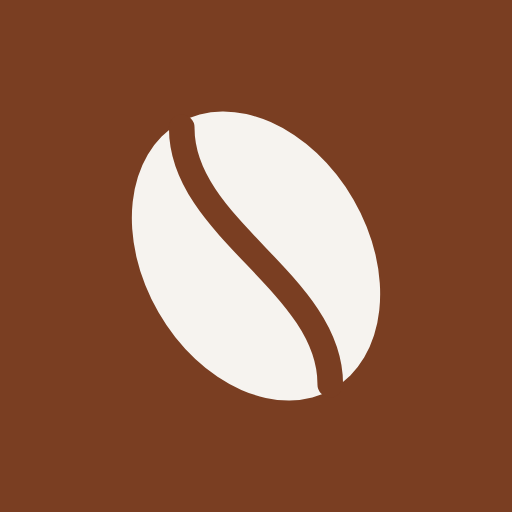
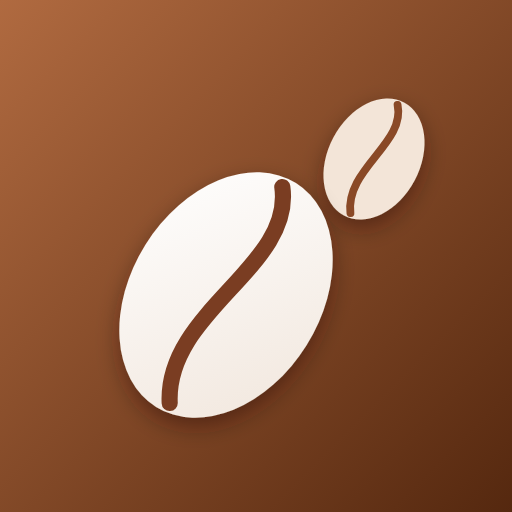
アイコンと起動画面を新しいデザインに合わせて作り直し、産地スタンプに「ポン」と押す演出を付ける
- アイコン：珈琲色のグラデーションに白いコーヒー豆ふたつ。Android 用の余白付き（maskable）も用意
- 起動画面：iPhone のホーム画面から開いたときの起動画像（白地・黒地）と、アイコンがふわっと消えてアプリに切り替わる動き
- 産地スタンプ帳：前に開いたときから増えた国は、画面に見えたところでハンコをポンと押す。上に「新しいスタンプ」を表示
- 動きを減らす設定では演出を出さない（さけメモ #22 と同じ）

Claude-Session: https://claude.ai/code/session_011UzNsmRdRvDHmse49LcX2u

diff --git a/src/app/stamps/page.tsx b/src/app/stamps/page.tsx
@@ -1,7 +1,7 @@
 "use client";
 
 import Link from "next/link";
-import { useEffect, useMemo, useState } from "react";
+import { useEffect, useMemo, useRef, useState } from "react";
 import { stars } from "@/components/RecordCard";
 import { collectStamps, REGIONS, type Stamp } from "@/lib/countries";
 import { listRecords } from "@/lib/db";
@@ -12,12 +12,16 @@ function StampCell({
   stamp,
   open,
   onToggle,
+  pop,
 }: {
   name: string;
   stamp?: Stamp;
   open: boolean;
   onToggle: () => void;
+  /** 新しく増えたスタンプは、ポンと押す */
+  pop?: boolean;
 }) {
+  const delay = usePressDelay(pop);
   if (!stamp) {
     return (
       <div className="stamp" aria-label={`${name} まだ`}>
@@ -27,13 +31,48 @@ function StampCell({
   }
   // 飲んだ国はタップで、その国のどの地域・農園の豆を飲んだかを開く
   return (
-    <button type="button" className="stamp stamp-on" aria-expanded={open} onClick={onToggle}>
+    <button
+      type="button"
+      ref={delay.ref}
+      className={!pop ? "stamp stamp-on" : delay.value === null ? "stamp stamp-on stamp-wait" : "stamp stamp-on stamp-pop"}
+      style={delay.value === null ? undefined : { animationDelay: `${delay.value}s` }}
+      aria-expanded={open}
+      onClick={onToggle}
+    >
       <span className="stamp-name">{name}</span>
       <span className="stamp-meta">
         {stamp.count}杯・最高★{stamp.best}
       </span>
     </button>
   );
+}
+
+// 同じころに見えたスタンプは、少しずつずらして順番に押す
+let lastPress = 0;
+let pressedInRow = 0;
+
+/** 画面に見えたときに押す。下のほうの新しいスタンプも、スクロールして見えたところで押される */
+function usePressDelay(pop?: boolean) {
+  const ref = useRef<HTMLButtonElement>(null);
+  const [value, setValue] = useState<number | null>(null);
+  useEffect(() => {
+    const el = ref.current;
+    if (!pop || !el) return;
+    const io = new IntersectionObserver(
+      ([e]) => {
+        if (!e.isIntersecting) return;
+        io.disconnect();
+        const now = Date.now();
+        pressedInRow = now - lastPress < 500 ? pressedInRow + 1 : 0;
+        lastPress = now;
+        setValue(0.25 + Math.min(pressedInRow, 10) * 0.12);
+      },
+      { threshold: 0.6 },
+    );
+    io.observe(el);
+    return () => io.disconnect();
+  }, [pop]);
+  return { ref, value };
 }
 
 /** その国で飲んだ豆（地域・農園ごと）。評価の高い順 */
@@ -57,6 +96,19 @@ function StampDetail({ name, stamp }: { name: string; stamp: Stamp }) {
   );
 }
 
+const SEEN_KEY = "mame-memo:stamps-seen";
+
+/** 前に開いたときから増えた産地。見たものとして覚えておく */
+function takeNewStamps(names: string[]): string[] {
+  try {
+    const seen = new Set(JSON.parse(localStorage.getItem(SEEN_KEY) ?? "[]") as string[]);
+    localStorage.setItem(SEEN_KEY, JSON.stringify(names));
+    return names.filter((n) => !seen.has(n));
+  } catch {
+    return [];
+  }
+}
+
 /** 飲んだ産地がスタンプのように埋まっていく。まだの国は次に試すヒントになる */
 export default function StampsPage() {
   const [records, setRecords] = useState<TastingRecord[] | null>(null);
@@ -68,6 +120,19 @@ export default function StampsPage() {
   }, []);
 
   const { stamps, others, total } = useMemo(() => collectStamps(records ?? []), [records]);
+
+  // 新しいスタンプは、ページを開いたときにポンと押す演出をする
+  const [fresh, setFresh] = useState<string[]>([]);
+  const counted = useRef(false);
+  useEffect(() => {
+    if (!records || counted.current) return;
+    counted.current = true;
+    // 画面の並び順（上から）で押していく
+    const shown = REGIONS.flatMap((r) => r.countries.map((c) => c.name)).filter((n) => stamps.has(n));
+    setFresh(takeNewStamps([...shown, ...others.keys()]));
+  }, [records, stamps, others]);
+  const popOf = (name: string) => fresh.includes(name);
+
 
   return (
     <>
@@ -81,6 +146,13 @@ export default function StampsPage() {
       <p className="lead">
         {total}カ国中 <strong>{stamps.size}カ国</strong> 制覇。色の付いた国を押すと、飲んだ地域や農園が見られます。
       </p>
+
+      {fresh.length > 0 && (
+        <p className="stamp-news" role="status">
+          新しいスタンプ：{fresh.slice(0, 5).join("・")}
+          {fresh.length > 5 ? ` ほか${fresh.length - 5}か所` : ""}
+        </p>
+      )}
 
       <main className="content">
         {REGIONS.map((r) => {
@@ -101,6 +173,7 @@ export default function StampsPage() {
                     stamp={stamps.get(c.name)}
                     open={opened === c.name}
                     onToggle={() => toggle(c.name)}
+                    pop={popOf(c.name)}
                   />
                 ))}
               </div>
@@ -115,7 +188,14 @@ export default function StampsPage() {
             <h2 style={{ fontSize: 15 }}>そのほかの産地</h2>
             <div className="stamp-grid">
               {[...others].map(([name, s]) => (
-                <StampCell key={name} name={name} stamp={s} open={opened === name} onToggle={() => toggle(name)} />
+                <StampCell
+                  key={name}
+                  name={name}
+                  stamp={s}
+                  open={opened === name}
+                  onToggle={() => toggle(name)}
+                  pop={popOf(name)}
+                />
               ))}
             </div>
             {opened && others.get(opened) && <StampDetail name={opened} stamp={others.get(opened)!} />}

diff --git a/src/app/globals.css b/src/app/globals.css
@@ -1656,3 +1656,112 @@ input[type="search"].input:focus {
     transform: scale(0.8);
   }
 }
+/* --- 産地スタンプ：新しい国はハンコをポンと押す --- */
+.stamp-news {
+  margin: 0 16px 12px;
+  padding: 10px 14px;
+  border-radius: 12px;
+  background: var(--accent-soft);
+  color: var(--accent-dark);
+  font-size: 14px;
+  font-weight: 700;
+  animation: rise 0.4s cubic-bezier(0.2, 0.8, 0.3, 1) 0.2s backwards;
+}
+.stamp-pop {
+  position: relative;
+  animation: stamp-press 0.55s cubic-bezier(0.3, 0.7, 0.4, 1) backwards;
+}
+/* 押した瞬間にインクがじわっと広がる輪 */
+.stamp-pop::after {
+  content: "";
+  position: absolute;
+  inset: -2px;
+  border-radius: 50%;
+  border: 2px solid var(--accent);
+  opacity: 0;
+  pointer-events: none;
+  animation: stamp-ink 0.6s ease-out;
+  animation-delay: inherit;
+}
+@keyframes stamp-press {
+  0% {
+    opacity: 0;
+    transform: scale(2.3) rotate(-22deg);
+  }
+  45% {
+    opacity: 1;
+    transform: scale(0.86) rotate(-4deg);
+  }
+  70% {
+    transform: scale(1.06) rotate(-7deg);
+  }
+  100% {
+    transform: rotate(-6deg);
+  }
+}
+@keyframes stamp-ink {
+  0%,
+  40% {
+    opacity: 0.6;
+    transform: scale(1);
+  }
+  100% {
+    opacity: 0;
+    transform: scale(1.5);
+  }
+}
+
+/* --- 起動画面：ホーム画面から開いたとき、アイコンからふわっとアプリに切り替える --- */
+.launch {
+  display: none;
+}
+@media (display-mode: standalone) {
+  .launch {
+    position: fixed;
+    inset: 0;
+    z-index: 1000;
+    display: flex;
+    align-items: center;
+    justify-content: center;
+    background: var(--bg);
+    pointer-events: none;
+    animation: launch-out 0.35s ease-in 0.45s forwards;
+  }
+  .launch img {
+    width: 120px;
+    height: 120px;
+    border-radius: 27px;
+    box-shadow: 0 4px 18px rgba(0, 0, 0, 0.12);
+    animation: launch-icon 0.8s cubic-bezier(0.3, 0.7, 0.4, 1) forwards;
+  }
+}
+@keyframes launch-out {
+  to {
+    opacity: 0;
+    visibility: hidden;
+  }
+}
+@keyframes launch-icon {
+  40% {
+    transform: scale(0.94);
+  }
+  100% {
+    transform: scale(1.25);
+    opacity: 0;
+  }
+}
+@media (prefers-reduced-motion: reduce) {
+  .launch {
+    display: none !important;
+  }
+}
+/* まだ画面に見えていない新しいスタンプは、押す前の空きの枠で待つ */
+.stamp-wait {
+  border: 1.5px dashed var(--input-line);
+  background: none;
+  color: var(--muted);
+  transform: none;
+}
+.stamp-wait .stamp-meta {
+  visibility: hidden;
+}

diff --git a/src/app/layout.tsx b/src/app/layout.tsx
@@ -1,5 +1,6 @@
 import type { Metadata, Viewport } from "next";
 import ServiceWorker from "@/components/ServiceWorker";
+import LaunchScreen from "@/components/LaunchScreen";
 import TabBar from "@/components/TabBar";
 import ThemeSync from "@/components/ThemeSync";
 import { THEME_BOOT } from "@/lib/theme";
@@ -8,8 +9,31 @@ import "./globals.css";
 export const metadata: Metadata = {
   title: "まめメモ",
   description: "飲んだコーヒーを記録して、だんだん詳しくなるアプリ",
-  appleWebApp: { capable: true, title: "まめメモ", statusBarStyle: "default" },
+  appleWebApp: { capable: true, title: "まめメモ", statusBarStyle: "default", startupImage: startupImages() },
 };
+
+/** iPhone のホーム画面から開いたときの起動画像（縦向き）。明るさの設定に合わせて白地・黒地を出し分ける */
+function startupImages() {
+  const devices: [number, number, number][] = [
+    [440, 956, 3],
+    [430, 932, 3],
+    [402, 874, 3],
+    [393, 852, 3],
+    [428, 926, 3],
+    [390, 844, 3],
+    [375, 812, 3],
+    [414, 896, 3],
+    [414, 896, 2],
+    [375, 667, 2],
+  ];
+  return devices.flatMap(([w, h, r]) =>
+    (["light", "dark"] as const).map((mode) => ({
+      url: `/splash/splash-${mode}-${w}x${h}@${r}x.png`,
+      media: `(device-width: ${w}px) and (device-height: ${h}px) and (-webkit-device-pixel-ratio: ${r}) and (orientation: portrait) and (prefers-color-scheme: ${mode})`,
+    })),
+  );
+}
+
 
 export const viewport: Viewport = {
   themeColor: [
@@ -31,6 +55,7 @@ export default function RootLayout({
         <script dangerouslySetInnerHTML={{ __html: THEME_BOOT }} />
       </head>
       <body>
+        <LaunchScreen />
         <div className="app">{children}</div>
         <TabBar />
         <ServiceWorker />

diff --git a/src/app/manifest.ts b/src/app/manifest.ts
@@ -7,13 +7,13 @@ export default function manifest(): MetadataRoute.Manifest {
     description: "飲んだコーヒーを記録して、だんだん詳しくなるアプリ",
     start_url: "/",
     display: "standalone",
-    background_color: "#f6f3ef",
-    theme_color: "#f6f3ef",
+    background_color: "#f2f2f7",
+    theme_color: "#f2f2f7",
     lang: "ja",
     icons: [
       { src: "/icon-192.png", sizes: "192x192", type: "image/png" },
       { src: "/icon-512.png", sizes: "512x512", type: "image/png" },
-      { src: "/icon-512.png", sizes: "512x512", type: "image/png", purpose: "maskable" },
+      { src: "/icon-maskable-512.png", sizes: "512x512", type: "image/png", purpose: "maskable" },
     ],
   };
 }

diff --git a/src/components/LaunchScreen.tsx b/src/components/LaunchScreen.tsx
@@ -1,0 +1,14 @@
+import icon from "../../public/icon-512.png";
+
+/**
+ * ホーム画面から開いたときの起動画面。iPhone が出す起動画像（public/splash）と同じ絵から始めて、
+ * アイコンがふわっと消えてアプリに切り替わる。ブラウザで開いたときと「動きを減らす」の設定では出さない（globals.css）
+ */
+export default function LaunchScreen() {
+  return (
+    <div className="launch" aria-hidden="true">
+      {/* eslint-disable-next-line @next/next/no-img-element -- 描画前から出したいので素の img にする */}
+      <img src={icon.src} alt="" />
+    </div>
+  );
+}
